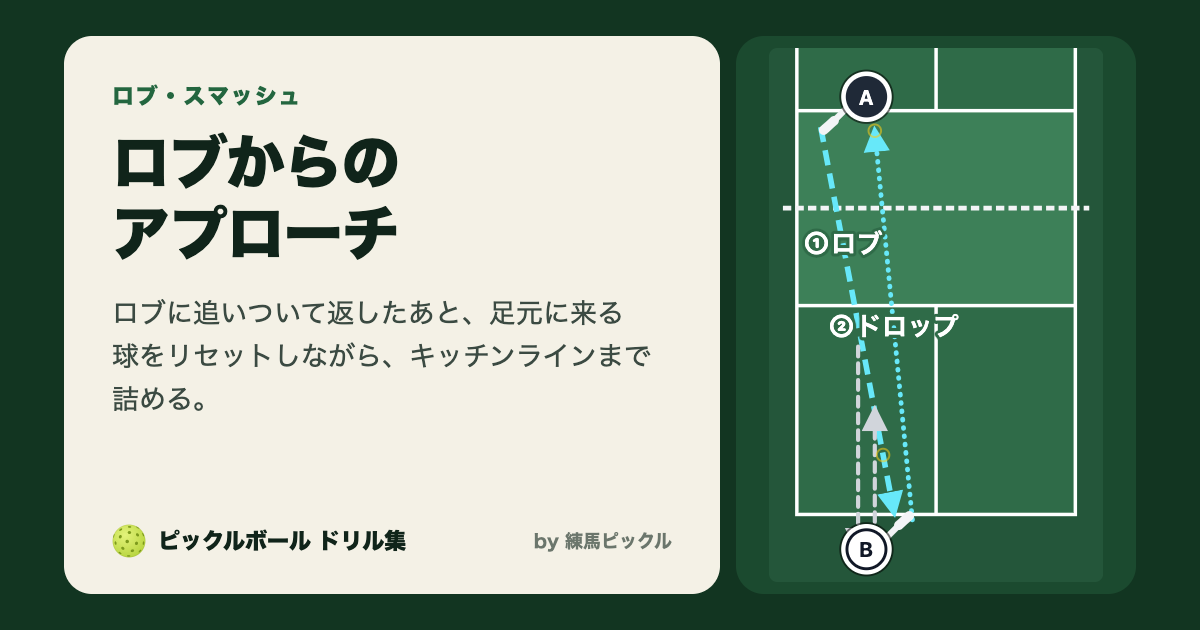
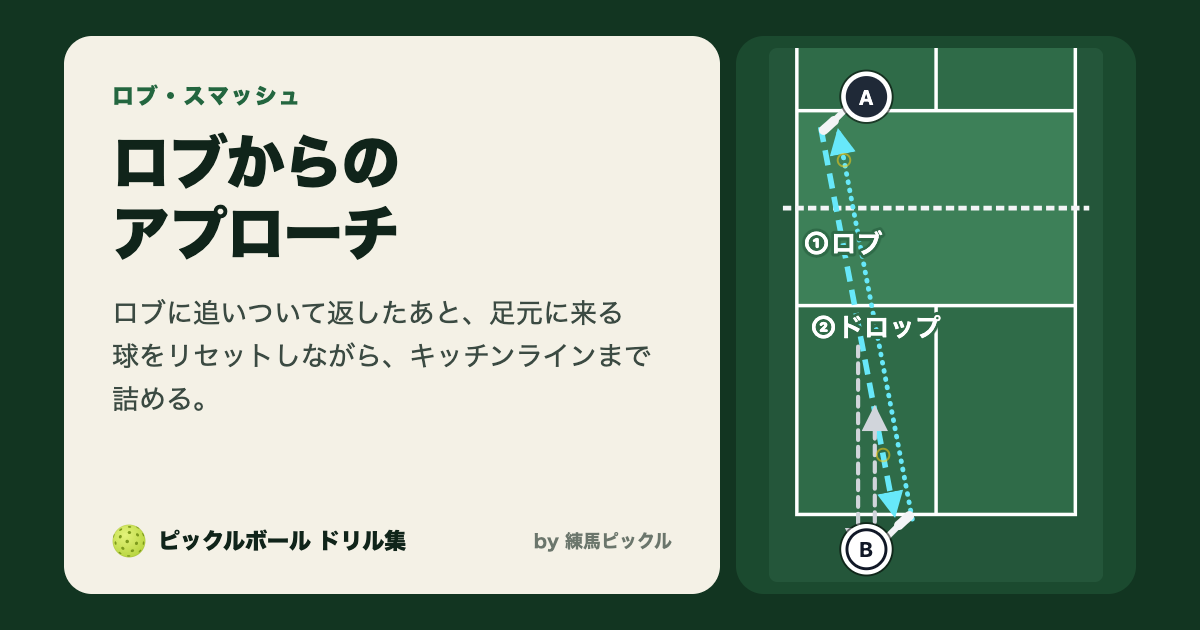
Animation continuity: trap pops up from the received height; loop rewinds players and refreshes the ball; data fixes; continuity checker in the add-drill skill
Claude-Session: https://claude.ai/code/session_013HpVCq95JLREtWQF64J4S6

diff --git a/src/scripts/court-anim.ts b/src/scripts/court-anim.ts
@@ -8,12 +8,32 @@ const PRE_MS = 800;
 /** そのうち、手から落としたボールが地面に着くまでの時間と、落とす手の高さ（ft） */
 const PRE_DROP_MS = 420;
 const HAND_FT = 3;
+/**
+ * トラップ（相手から来た球を面で受けて、ほんの少し上げる）: 受けた高さから POP_FT だけ上がってから落ちる。
+ * 前の手の終わり（球が届いたパドルの位置と高さ）から途切れずにつながるようにする
+ */
+const TRAP_POP_FT = 0.8;
+const TRAP_DROP_MS = 620;
+/** 弾んでから打点まで上がる時間 */
+const PRE_RISE_MS = PRE_MS - PRE_DROP_MS;
+/** 受けた高さ h0 から pop だけ上がって地面（0）に落ちる放物線（u: 0〜1） */
+const popArc = (h0: number, pop: number) => {
+	const a = 2 * pop + Math.sqrt(4 * pop * pop + 4 * pop * h0);
+	const b = h0 + a;
+	return (u: number) => Math.max(0, h0 + a * u - b * u * u);
+};
 /** ボールの大きさ（高さ 1ft あたり）。高さそのものは右の帯（横から見た図）で見せる */
 const BALL_R_GROUND = 0.6;
 const BALL_R_PER_FT = 0.05;
 const BALL_R_MAX = 1;
 const PAUSE_MS = 700;
 const LOOP_PAUSE_MS = 1600;
+/**
+ * 最後の手から最初の手へ戻るとき（ループ）: 人は最初の手の立ち位置まで歩いて戻り、ボールは新しい球になるなら消してから出し直す。
+ * 図が途切れたり、人やボールが跳んだりして見えないようにするため（docs/diagrams.md「アニメーション」の連続性）
+ */
+const REWIND_MS = 700;
+const BALL_FADE_MS = 300;
 
 function setup(root: HTMLElement) {
 	const frames = [...root.querySelectorAll<SVGSVGElement>('svg.frame')];
@@ -72,6 +92,8 @@ function setup(root: HTMLElement) {
 		frames.forEach((f, k) => (f.style.display = k === i ? '' : 'none'));
 		dots.forEach((d, k) => d.classList.toggle('active', k === i));
 		const frame = frames[i];
+		// ループで消したボールを、次に見せるときは元に戻す
+		frame.querySelectorAll<SVGElement>('.ball, .side-ball').forEach((b) => (b.style.opacity = ''));
 		const ball = frame.querySelector<SVGGElement>('.ball')!;
 		const balls = [...frame.querySelectorAll<SVGPathElement>('path[data-kind="ball"]')];
 		const sideBall = frame.querySelector<SVGCircleElement>('.side-ball');
@@ -150,17 +172,16 @@ function setup(root: HTMLElement) {
 		const reset = () => {
 			showMarks(animate ? -1 : 1);
 			balls.forEach((_, k) => setReveal(k, animate ? 0 : 1));
-			movers.forEach(({ g, sg }) => {
-				g?.setAttribute('transform', '');
-				sg?.setAttribute('transform', '');
-			});
+			// 動く人だけでなく、ループで最初の立ち位置へ戻した人（rewind）の移動も消す
+			frame.querySelectorAll('[data-player-id], [data-side-player]').forEach((g) => g.setAttribute('transform', ''));
 			// 打つ手なら打つ人のパドルから、人が動くだけの手なら前の手の終わりの位置にボールを置く
 			const pre = balls[0]?.dataset.pre?.split(',').map(Number);
+			const preFromH = balls[0]?.dataset.preFromH;
 			setPreRings(!animate && !!pre);
 			drawBall(
 				balls[0]
 					? animate && pre
-						? { x: pre[0], y: pre[1], h: HAND_FT }
+						? { x: pre[0], y: pre[1], h: preFromH !== undefined ? Number(preFromH) : HAND_FT }
 						: ballAt(balls[0], animate ? 0 : 1)
 					: startBall[i],
 			);
@@ -180,20 +201,24 @@ function setup(root: HTMLElement) {
 		const duration = durations.length ? Math.max(...durations) : SHOT_MS;
 		// 打つ前に一度弾ませる球: 手前で弾んだボールが打点まで上がってから、打球が始まる
 		const preAttr = balls[0]?.dataset.pre?.split(',').map(Number);
-		const preMs = preAttr ? PRE_MS : 0;
+		// トラップなら、受けた高さから少し上がって落ちる。手から落とす球出しなら、手の高さから落ちる
+		const trapH = balls[0]?.dataset.preFromH !== undefined ? Number(balls[0].dataset.preFromH) : undefined;
+		const dropMs = trapH !== undefined ? TRAP_DROP_MS : PRE_DROP_MS;
+		const fall = trapH !== undefined ? popArc(trapH, TRAP_POP_FT) : (u: number) => HAND_FT * (1 - u * u);
+		const preMs = preAttr ? dropMs + PRE_RISE_MS : 0;
 		const t0 = performance.now();
 		const tick = (now: number) => {
 			const elapsed = now - t0;
 			if (preAttr && elapsed < preMs) {
 				const start = ballAt(balls[0], 0);
-				if (elapsed < PRE_DROP_MS) {
-					// 手から落とす: 手の高さから、だんだん速く地面へ
-					const u = elapsed / PRE_DROP_MS;
+				if (elapsed < dropMs) {
+					// 地面まで: 手から落とす球はだんだん速く、トラップした球はポンと少し上がってから落ちる
+					const u = elapsed / dropMs;
 					setPreRings(false);
-					drawBall({ x: preAttr[0], y: preAttr[1], h: HAND_FT * (1 - u * u) });
+					drawBall({ x: preAttr[0], y: preAttr[1], h: fall(u) });
 				} else {
 					// 弾んで打点まで上がる（上がるにつれてゆるむ）
-					const u = (elapsed - PRE_DROP_MS) / (preMs - PRE_DROP_MS);
+					const u = (elapsed - dropMs) / (preMs - dropMs);
 					setPreRings(true);
 					const up = Math.sin((u * Math.PI) / 2);
 					drawBall({ x: preAttr[0] + (start.x - preAttr[0]) * u, y: preAttr[1] + (start.y - preAttr[1]) * u, h: start.h * up });
@@ -234,11 +259,80 @@ function setup(root: HTMLElement) {
 		raf = requestAnimationFrame(tick);
 	}
 
+	/** 要素の translate(x y) を読む */
+	const translateOf = (el: Element | null): [number, number] => {
+		const m = el?.getAttribute('transform')?.match(/translate\(([-\d.e]+)[ ,]+([-\d.e]+)\)/);
+		return m ? [Number(m[1]), Number(m[2])] : [0, 0];
+	};
+	/** 最初の手で、最初のボールが出る位置（手から弾ませる球なら弾む位置）。ループのつながりを見るのに使う */
+	const firstBallStart = (): BallPos | undefined => {
+		const p = frames[0].querySelector<SVGPathElement>('path[data-kind="ball"]');
+		if (!p) return undefined;
+		const pre = p.dataset.pre?.split(',').map(Number);
+		if (pre) return { x: pre[0], y: pre[1], h: p.dataset.preFromH !== undefined ? Number(p.dataset.preFromH) : HAND_FT };
+		const prev = frames[0].style.display;
+		frames[0].style.display = '';
+		const b = ballAt(p, 0);
+		frames[0].style.display = prev;
+		return b;
+	};
+	/**
+	 * 最後の手 i から最初の手へ戻る: 人を最初の立ち位置まで動かし、ボールが最初の手の始まりとつながらなければ消す
+	 */
+	function rewind(i: number, done: () => void) {
+		const frame = frames[i];
+		const first = frames[0];
+		const moves: { g: Element; from: [number, number]; to: [number, number] }[] = [];
+		frame.querySelectorAll('[data-player-id]').forEach((g) => {
+			const id = (g as HTMLElement).dataset.playerId;
+			const body = g.querySelector('circle.body');
+			const body0 = first.querySelector(`[data-player-id="${id}"] circle.body`);
+			if (!body || !body0) return;
+			const to: [number, number] = [
+				Number(body0.getAttribute('cx')) - Number(body.getAttribute('cx')),
+				Number(body0.getAttribute('cy')) - Number(body.getAttribute('cy')),
+			];
+			moves.push({ g, from: translateOf(g), to });
+			const sg = frame.querySelector(`[data-side-player="${id}"]`);
+			const sg0 = first.querySelector(`[data-side-player="${id}"] .side-head`);
+			const head = sg?.querySelector('.side-head');
+			if (sg && sg0 && head) moves.push({ g: sg, from: translateOf(sg), to: [0, Number(sg0.getAttribute('cy')) - Number(head.getAttribute('cy'))] });
+		});
+		// ボール: 最初の手の始まりが、最後の手の終わりと同じ所でなければ（新しい球を出す、別の人から始まる）、消してから出し直す
+		const lastP = [...frame.querySelectorAll<SVGPathElement>('path[data-kind="ball"]')][0];
+		const end = lastP ? ballAt(lastP, 1) : startBall[i];
+		const start = firstBallStart();
+		const fresh = !!first.querySelector('path[data-kind="ball"][data-fresh]');
+		// 位置が同じでも、高さが違えば（例: 肩の高さで受けた球を、膝の高さのディンクで打ち始める）つながらないので出し直す
+		const fade = !!start && (fresh || !end || Math.hypot(start.x - end.x, start.y - end.y) > 0.5 || Math.abs(start.h - end.h) > 0.5);
+		const balls = [...frame.querySelectorAll<SVGElement>('.ball, .side-ball')];
+		const t0 = performance.now();
+		const tick = (now: number) => {
+			const t = Math.min(1, (now - t0) / REWIND_MS);
+			const e = t < 0.5 ? 2 * t * t : 1 - (-2 * t + 2) ** 2 / 2;
+			for (const m of moves) m.g.setAttribute('transform', `translate(${m.from[0] + (m.to[0] - m.from[0]) * e} ${m.from[1] + (m.to[1] - m.from[1]) * e})`);
+			if (fade) balls.forEach((b) => (b.style.opacity = String(Math.max(0, 1 - (now - t0) / BALL_FADE_MS))));
+			if (t < 1) raf = requestAnimationFrame(tick);
+			else done();
+		};
+		raf = requestAnimationFrame(tick);
+	}
+
 	function playFrom(i: number) {
 		show(i, true, () => {
 			if (!playing) return;
 			const last = i === frames.length - 1;
-			timer = window.setTimeout(() => playFrom(last ? 0 : i + 1), last ? LOOP_PAUSE_MS : PAUSE_MS);
+			if (!last) {
+				timer = window.setTimeout(() => playFrom(i + 1), PAUSE_MS);
+				return;
+			}
+			// 最後の手: 少し止めて見せてから、最初の立ち位置へ戻し、最初の手へ
+			timer = window.setTimeout(() => {
+				if (!playing) return;
+				rewind(i, () => {
+					if (playing) timer = window.setTimeout(() => playFrom(0), PAUSE_MS);
+				});
+			}, LOOP_PAUSE_MS - REWIND_MS);
 		});
 	}
 

diff --git a/.claude/skills/add-drill/anim-continuity.js b/.claude/skills/add-drill/anim-continuity.js
@@ -1,0 +1,57 @@
+// アニメーションの連続性を測る（Claude in Chrome の javascript_tool に、このファイルの中身をそのまま貼って実行する）。
+// ドリルのページ（またはメニューで開いた図）を表示した状態で、最初のアニメーションを2周ほど再生しながら、
+// ボール（上から見た図の位置）・横から見た図のボール（高さと奥行き）・人の位置を、図の座標（ft）でこまごとに記録し、
+// こまの間で一番大きく動いた量を返す。
+// 目安: 1こま（約16ms）で 1.5ft を超えて動くことはない（一番速いスマッシュでも約1ft）。超えたら、手の切れ目
+// （前の手の終わりと次の手の始まり、最後の手から最初の手へ戻るところ）で位置や高さが跳んでいる。
+// こまが飛んだとき（前のこまから 40ms 以上たったとき）は数えない。球出しで新しいボールを出す手（data-fresh）に
+// 切り替わる瞬間と、ループで一度消した（透明にした）ボールを出し直すときの跳びも、正しいので数えない。
+(async (ms = 20000) => {
+	const anim = document.querySelector('[data-court-anim]');
+	if (!anim) return 'アニメーションの図がない';
+	const frames = [...anim.querySelectorAll('svg.frame')];
+	const tr = (el) => {
+		const m = el?.getAttribute('transform')?.match(/translate\(([-\d.e]+)[ ,]+([-\d.e]+)\)/);
+		return m ? [Number(m[1]), Number(m[2])] : [0, 0];
+	};
+	const tracks = {};
+	const last = {};
+	let prevFrame = -1;
+	let prevT = performance.now();
+	const t0 = prevT;
+	await new Promise((done) => {
+		const tick = (now) => {
+			const dt = now - prevT;
+			prevT = now;
+			const fi = frames.findIndex((f) => f.style.display !== 'none');
+			const frame = frames[fi];
+			const fresh = fi !== prevFrame && !!frame?.querySelector('path[data-kind="ball"][data-fresh]');
+			prevFrame = fi;
+			const put = (k, p, skip) => {
+				const t = (tracks[k] ??= { max: 0, at: '' });
+				if (last[k] && !skip && dt < 40) {
+					const d = Math.hypot(...p.map((v, i) => v - last[k][i]));
+					if (d > t.max) [t.max, t.at] = [d, `${fi + 1}手目`];
+				}
+				last[k] = p;
+			};
+			const ball = frame?.querySelector('.ball');
+			const hidden = !ball || ball.style.opacity === '0' || /translate\(-10 -10\)/.test(ball.getAttribute('transform') ?? '');
+			if (hidden) delete last['ボール'];
+			else put('ボール', tr(ball), fresh);
+			const side = frame?.querySelector('.side-ball');
+			if (!side || hidden || Number(side.getAttribute('cx')) < -5) delete last['横から見た図のボール'];
+			else put('横から見た図のボール', [Number(side.getAttribute('cx')), Number(side.getAttribute('cy'))], fresh);
+			for (const g of frame?.querySelectorAll('[data-player-id]') ?? []) {
+				const c = g.querySelector('circle.body');
+				const [dx, dy] = tr(g);
+				put(`人 ${g.dataset.playerId}`, [Number(c.getAttribute('cx')) + dx, Number(c.getAttribute('cy')) + dy], false);
+			}
+			if (now - t0 < ms) requestAnimationFrame(tick);
+			else done();
+		};
+		requestAnimationFrame(tick);
+	});
+	const out = Object.entries(tracks).map(([k, t]) => `${k}: ${t.max.toFixed(2)}ft${t.max > 1.5 ? `（跳び。${t.at}）` : ''}`);
+	return out.join('\n');
+})();

diff --git a/docs/decisions.md b/docs/decisions.md
@@ -103,3 +103,6 @@
 - ドライブ以外の球の高さの弧は、ネットの上で白帯より少なくとも 0.3ft 高く通るように、山を自動で上げる（Court.astro の NET_CLEAR_FT）。前は山を線の真ん中に置くだけだったので、ネットが線の端に近い球（dnk009 の下がって打つスライスなど）は、ネットの上で白帯より低くなっていた（書き手が気づいた）。全ドリルの球がネットを越えることを確かめた。
 - 打球に `fall: true`（投げ下ろす弧）を足した。打った高さから上がらずに、だんだん速く下がって落ちる。dnk009 の手投げの球出しで、一度上がってから落ちる弧になっていたため（書き手の意見。実際は上から下へ鋭く投げ下ろす）。
 - 打つ前に一度弾ませる球（`afterBounce`）は、体の前ではなくパドルの真下で弾ませるようにした。トラップして弾ませるドリル（dnk011）で、パドルに届いた球が、弾む位置へ横に跳んで見えたため（書き手の意見）。手から落とす球出しも同じ。
+- トラップして弾ませる球（`afterBounce` で、この人に向かってくる球がある場合）は、前の手で球が届いた高さから、ほんの少し上がってから落ち、パドルの真下で弾むようにした。前は手の高さから急に落ち始めて、横から見た図で途切れていた（書き手の意見）。あわせて、アニメーションの連続性を、言われなくても毎回確かめる決まりにした（diagrams.md、add-drill スキル、測る道具 anim-continuity.js）。
+- アニメーションの最後の手から最初の手へ戻るとき、人は最初の立ち位置まで歩いて戻り（0.7秒）、ボールは最初の手の始まりと位置か高さがつながらなければ、消してから出し直すようにした（court-anim.ts の rewind）。前は、ロブで下がった人やネット際に落ちたボールが、ループの瞬間に最初の位置へ跳んでいた。全35ドリルを測り、跳びがないことを確かめた。
+  - あわせてデータも直した: 球が2つ以上同時に動くドリル（dnk002、dnk005）は、各手の最初の球（アニメーションで動くボール）が前の手の最初の球の続きになるように並べる。lob005 のドロップは、相手のキッチンの1点ではなく、相手（A）の手前に落として A が打つ。dnk009 の下がって打つスライスは、座標ではなく B から打つ（パドルから出る）。

diff --git a/docs/diagrams.md b/docs/diagrams.md
@@ -25,6 +25,10 @@
 - ボールが飛ぶ時間は、距離 ÷ 球の種類ごとの速さ（実際の球速の目安、`config/court.ts` の `shotSpeedKmh`）で決める。同じ種類の球は距離によらず同じ速さに見える。目で追えるよう、全体を同じ割合でゆっくり再生する（`ANIM_SLOWDOWN`）。1手は0.4〜2秒に収める。
 - 手が2つ以上ある図は、アニメーションだけで見せる。コマ割りで並べると、スマホでは1コマが小さくなりすぎるため。
 - 各手の終わりに、ボールは届いた位置（受ける人のパドル、または着地点）に残し、次の手はそこから始める。ボールの受け渡しのつながりを見せるため。
+- **連続性（つながり）を必ず守る**。前の手の終わりと次の手の始まり、最後の手から最初の手へ戻るところで、人の位置、ボールの位置（上から見た図）、ボールの高さ（横から見た図）が、どれも途切れたり跳んだりしないようにする。手を足すとき・直すときは、書き手に言われなくても確かめる（`.claude/skills/add-drill/anim-continuity.js` で測る）。
+  - 人が動く手は、動いた先が次の手で描かれる位置と一致する（線の長さではなく、体の中心の差だけ動かす）。
+  - 繰り返したときに跳ばないよう、最後の手のあとの立ち位置を最初の手の立ち位置にそろえる（例: クロスディンクのラリーは、A が外側で受けたところから始める）。
+  - トラップや手から落とす球は、前の手で球が届いたパドルの位置と高さから始める（トラップは受けた高さから少し上がって落ち、パドルの真下で弾む）。
 - コートの図のボールは打つ人と受ける人のパドルの位置を通る。
 - 「視差効果を減らす」設定の端末では自動で再生せず、手を1つずつ切り替えて見せる。
 

diff --git a/.claude/skills/add-drill/SKILL.md b/.claude/skills/add-drill/SKILL.md
@@ -141,3 +141,4 @@ npx astro dev --background       # 開発サーバー（http://localhost:4321/pi
   - アニメーションで、線とボールが正しい人のパドルから出て、正しい相手（パドル）や場所に向かうか
   - 線の名前が人やネットに重ならず、図からはみ出していないか
   - タイトル・アニメーション・操作ボタンが1画面に収まるか
+  - **アニメーションが途切れずにつながるか**（書き手に言われなくても毎回確かめる）: 前の手の終わりと次の手の始まり、最後の手から最初の手へ戻るところで、人の位置、ボールの位置、横から見た図のボールの高さが跳ばないか。Chrome の javascript_tool に `anim-continuity.js`（このスキルのフォルダ）の中身を貼って実行し、1こまの動きが 1.5ft を超えていないかを見る（図の座標で測る）。超えていたら、どこで跳ぶかを1手ずつ止めて確かめ、データ（立ち位置・動き・`afterBounce` など）か描く側のコードを直す。決まりは `docs/diagrams.md` の「アニメーション」。

diff --git a/src/content/docs/drills/dnk/dnk005.md b/src/content/docs/drills/dnk/dnk005.md
@@ -35,8 +35,9 @@ drill:
       - { from: B, to: A, type: dink, n: 1, bounce: front, label: "" }
       - { from: C, to: D, type: dink, n: 1, bounce: front, label: "" }
       - { from: D, to: C, type: dink, n: 1, bounce: front, label: "" }
-      - { from: A, to: B, type: dink, n: 2, bounce: front }
+      # 2手目は、1手目の最初の球（B に届いた球）の続きを先に書く（アニメーションで動くボールは各手の最初の球）
       - { from: B, to: A, type: dink, n: 2, bounce: front, label: "" }
+      - { from: A, to: B, type: dink, n: 2, bounce: front }
       - { from: C, to: D, type: dink, n: 2, bounce: front, label: "" }
       - { from: D, to: C, type: dink, n: 2, bounce: front, label: "" }
   builderDefault:

diff --git a/src/content/docs/drills/dnk/dnk009.md b/src/content/docs/drills/dnk/dnk009.md
@@ -29,7 +29,7 @@ drill:
       # 球出し役はキッチンの中から上から投げ下ろす（頭の高さから上がらずに、弧を描いて足元へ落ちる）
       - { from: A, to: B, type: dink, feed: true, n: 1, bounce: front, hit: head, fall: true, label: 球出し（手投げ） }
       - { from: B, to: near-rightOuter-kitchenBack, type: move, n: 1 }
-      - { from: [17, 31.5], to: A.front, type: dink, n: 2, label: スライス }
+      - { from: B, to: A.front, type: dink, n: 2, label: スライス }
       - { from: B, to: near-right-kitchen, type: move, n: 2 }
   builderDefault:
     min: 2

diff --git a/src/content/docs/drills/dnk/dnk002.md b/src/content/docs/drills/dnk/dnk002.md
@@ -31,8 +31,9 @@ drill:
     shots:
       - { from: A, to: B, type: dink, n: 1, bounce: front }
       - { from: B, to: A, type: dink, n: 1, bounce: front, label: "" }
-      - { from: A, to: B, type: dink, n: 2, bounce: front }
+      # 2手目は、1手目の最初の球（B に届いた球）の続きを先に書く（アニメーションで動くボールは各手の最初の球）
       - { from: B, to: A, type: dink, n: 2, bounce: front, label: "" }
+      - { from: A, to: B, type: dink, n: 2, bounce: front }
   builderDefault:
     min: 2
     sets: 5

diff --git a/src/content/docs/drills/lob/lob005.md b/src/content/docs/drills/lob/lob005.md
@@ -33,7 +33,7 @@ drill:
       - { from: B, to: A, type: dink, n: 2, bounce: front }
       - { from: A, to: B, type: lob, n: 3, bounce: front }
       - { from: B, to: near-left-baseline, type: move, n: 3 }
-      - { from: B, to: far-left-inKitchen, type: drop, n: 4 }
+      - { from: B, to: A, type: drop, n: 4, bounce: front }
       - { from: B, to: near-left-tran, type: move, n: 4 }
       - { from: A, to: B, type: dink, n: 5, bounce: front }
       - { from: B, to: far-left-inKitchen, type: reset, n: 6 }
